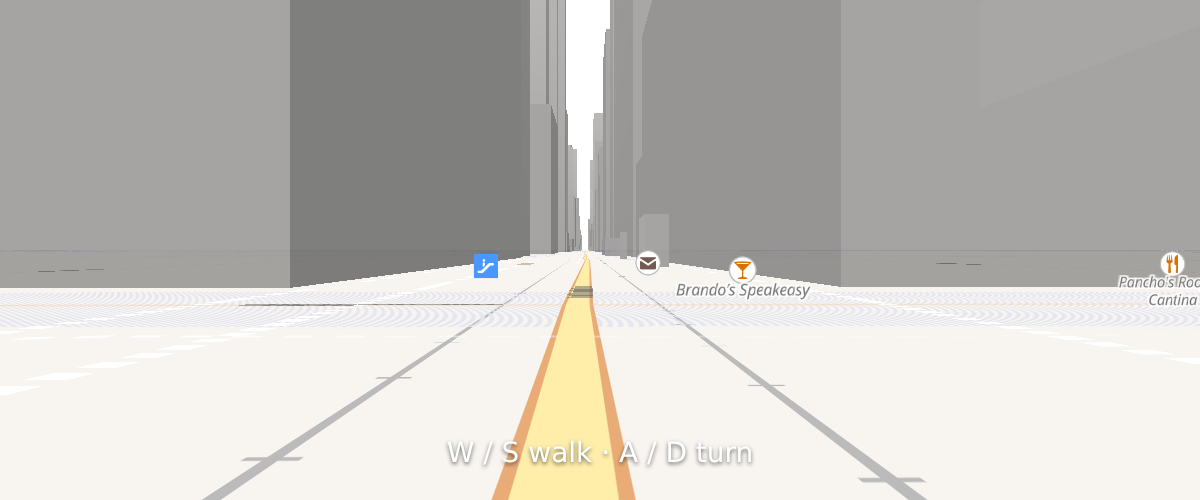
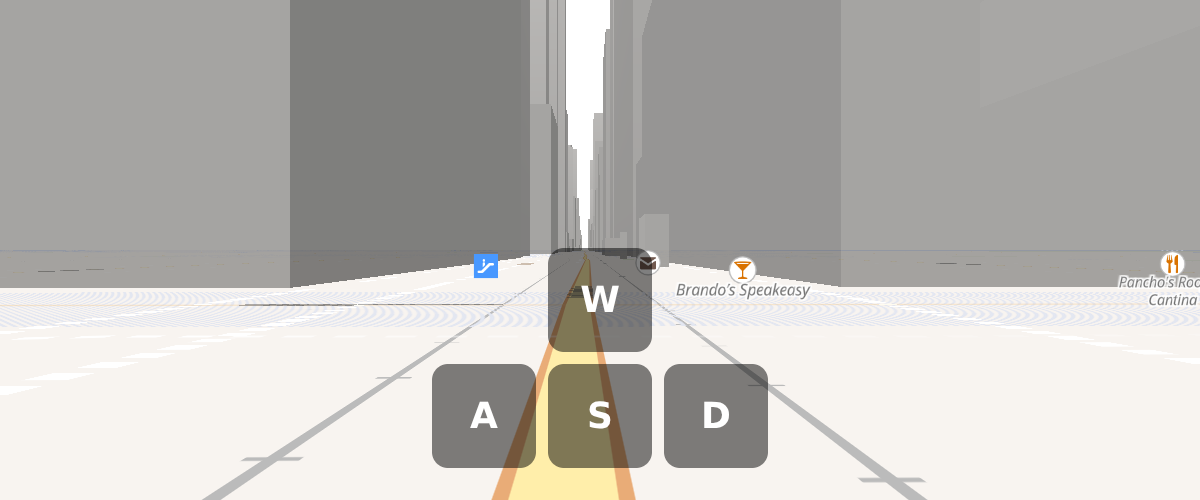
docs(example): add on-screen controls so the example works on mobile
Add a minimal W/A/S/D button pad wired via pointer events (touch + mouse) to
the same key set as the keyboard; the letters double as the keyboard hint.
Refresh the thumbnail and note both inputs in the description.

Changed region(s): [[0.3392, 0.48, 0.6475, 0.96]]

diff --git a/test/examples/walk-around-a-map-in-first-person.html b/test/examples/walk-around-a-map-in-first-person.html
@@ -2,7 +2,7 @@
 <html lang="en">
 <head>
 <title>Walk around a map in first person</title>
-<meta property="og:description" content="Drive an eye-height, level first-person camera over 3D buildings with the keyboard" />
+<meta property="og:description" content="Drive an eye-height, level first-person camera over 3D buildings with the keyboard or on-screen buttons" />
 <meta property="og:category" content="Camera & Animation" />
 <meta property="og:created" content="2026-07-25" />
 <meta charset='utf-8'>
@@ -11,22 +11,38 @@
 <style>
     body { margin: 0; padding: 0; }
     html, body, #map { height: 100%; }
-    #hint {
+    #controls {
         position: absolute;
-        bottom: 12px;
-        left: 0;
-        right: 0;
-        text-align: center;
-        color: #fff;
-        font: 14px/1.4 system-ui, sans-serif;
-        text-shadow: 0 1px 2px rgba(0, 0, 0, .6);
-        pointer-events: none;
+        bottom: 16px;
+        left: 50%;
+        transform: translateX(-50%);
+        display: grid;
+        grid-template-columns: repeat(3, 52px);
+        grid-auto-rows: 52px;
+        gap: 6px;
+        touch-action: none;
     }
+    #controls button {
+        font: 600 18px system-ui, sans-serif;
+        color: #fff;
+        background: rgba(0, 0, 0, .5);
+        border: none;
+        border-radius: 8px;
+    }
+    #controls .up { grid-area: 1 / 2; }
+    #controls .left { grid-area: 2 / 1; }
+    #controls .down { grid-area: 2 / 2; }
+    #controls .right { grid-area: 2 / 3; }
 </style>
 </head>
 <body>
 <div id="map"></div>
-<div id="hint">W / S walk &middot; A / D turn</div>
+<div id="controls">
+    <button type="button" class="up" data-key="KeyW">W</button>
+    <button type="button" class="left" data-key="KeyA">A</button>
+    <button type="button" class="down" data-key="KeyS">S</button>
+    <button type="button" class="right" data-key="KeyD">D</button>
+</div>
 
 <script type="module">
 import * as maplibregl from '../../dist/maplibre-gl-dev.mjs';
@@ -68,9 +84,17 @@ function updateCamera() {
     map.jumpTo(map.calculateCameraOptionsFromTo(eye, EYE_HEIGHT, ahead, EYE_HEIGHT));
 }
 
+// Keyboard on desktop, on-screen buttons on touch, both feed the same key set.
 const keysDown = new Set();
 addEventListener('keydown', (event) => keysDown.add(event.code));
 addEventListener('keyup', (event) => keysDown.delete(event.code));
+for (const button of document.querySelectorAll('#controls button')) {
+    const code = button.dataset.key;
+    button.addEventListener('pointerdown', (event) => { event.preventDefault(); keysDown.add(code); });
+    for (const type of ['pointerup', 'pointerleave', 'pointercancel']) {
+        button.addEventListener(type, () => keysDown.delete(code));
+    }
+}
 
 let lastFrameTime = performance.now();
 function loop(now) {
